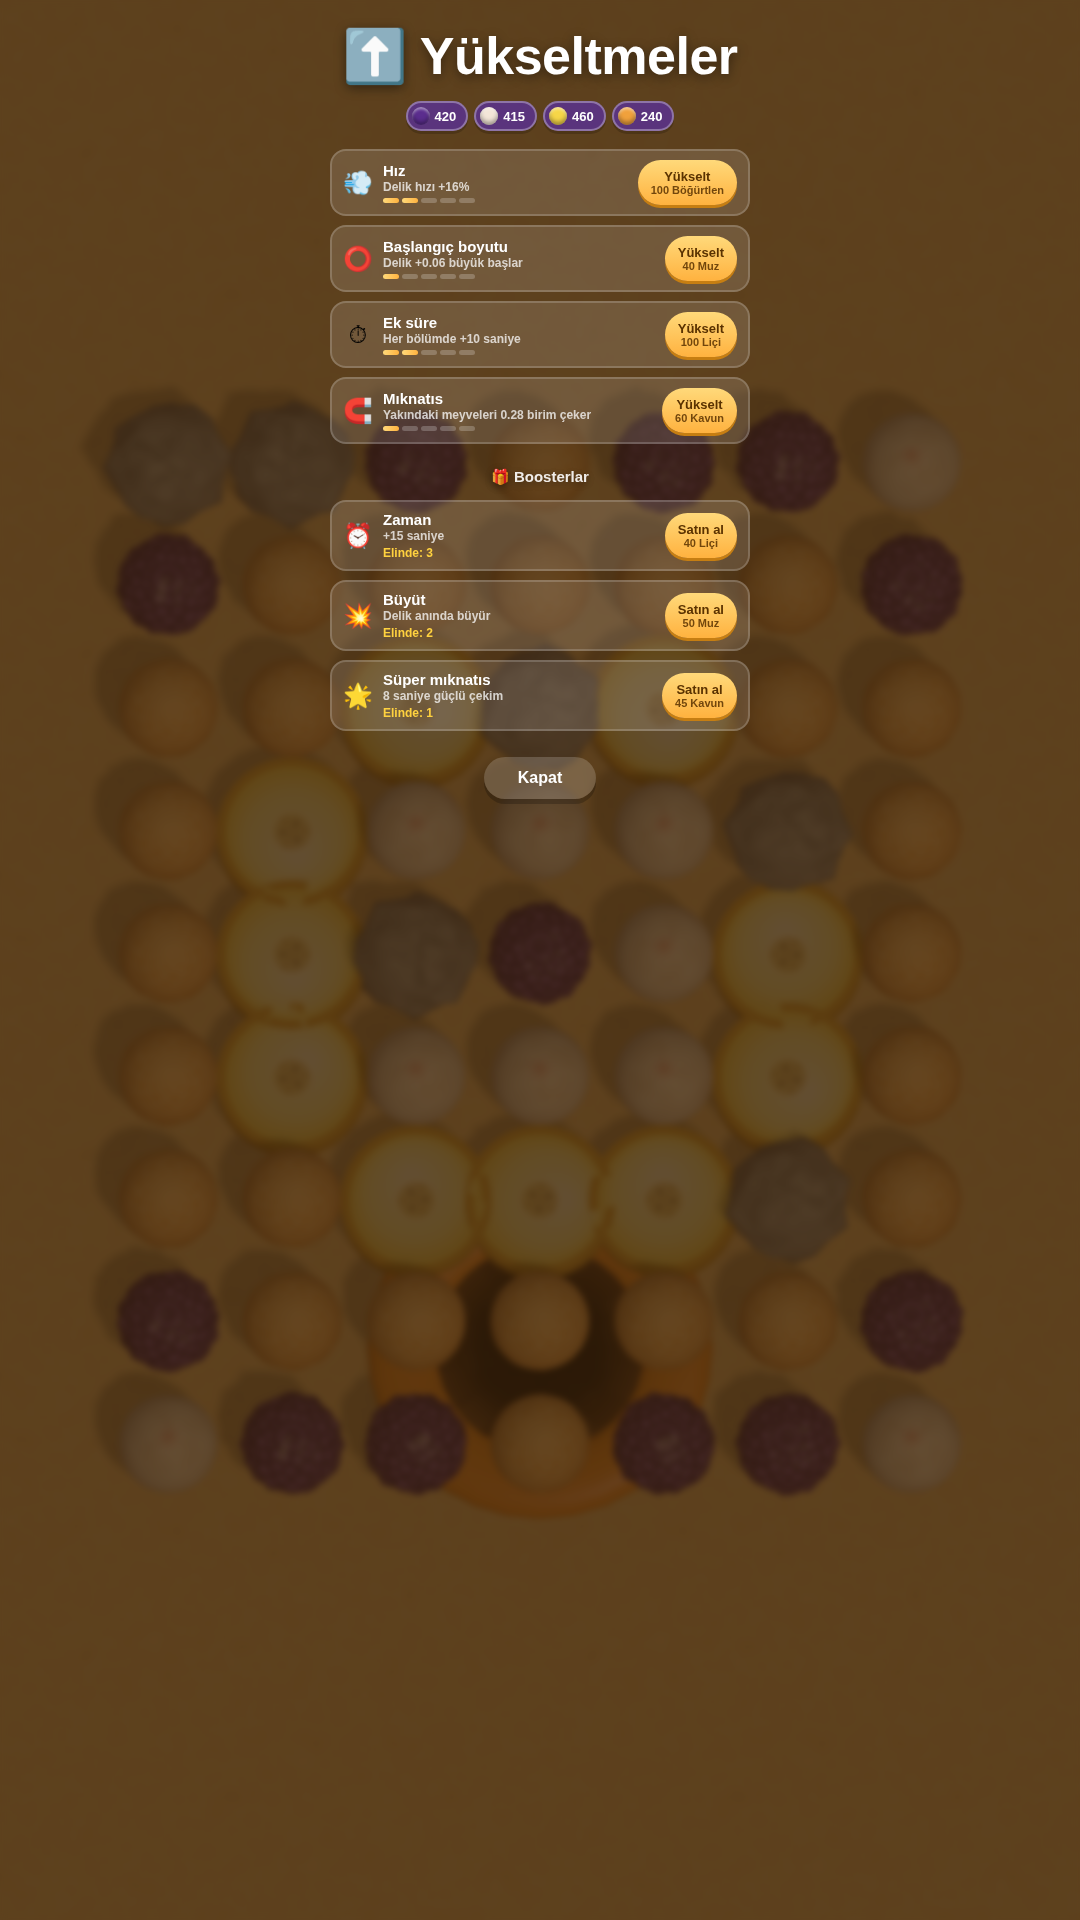
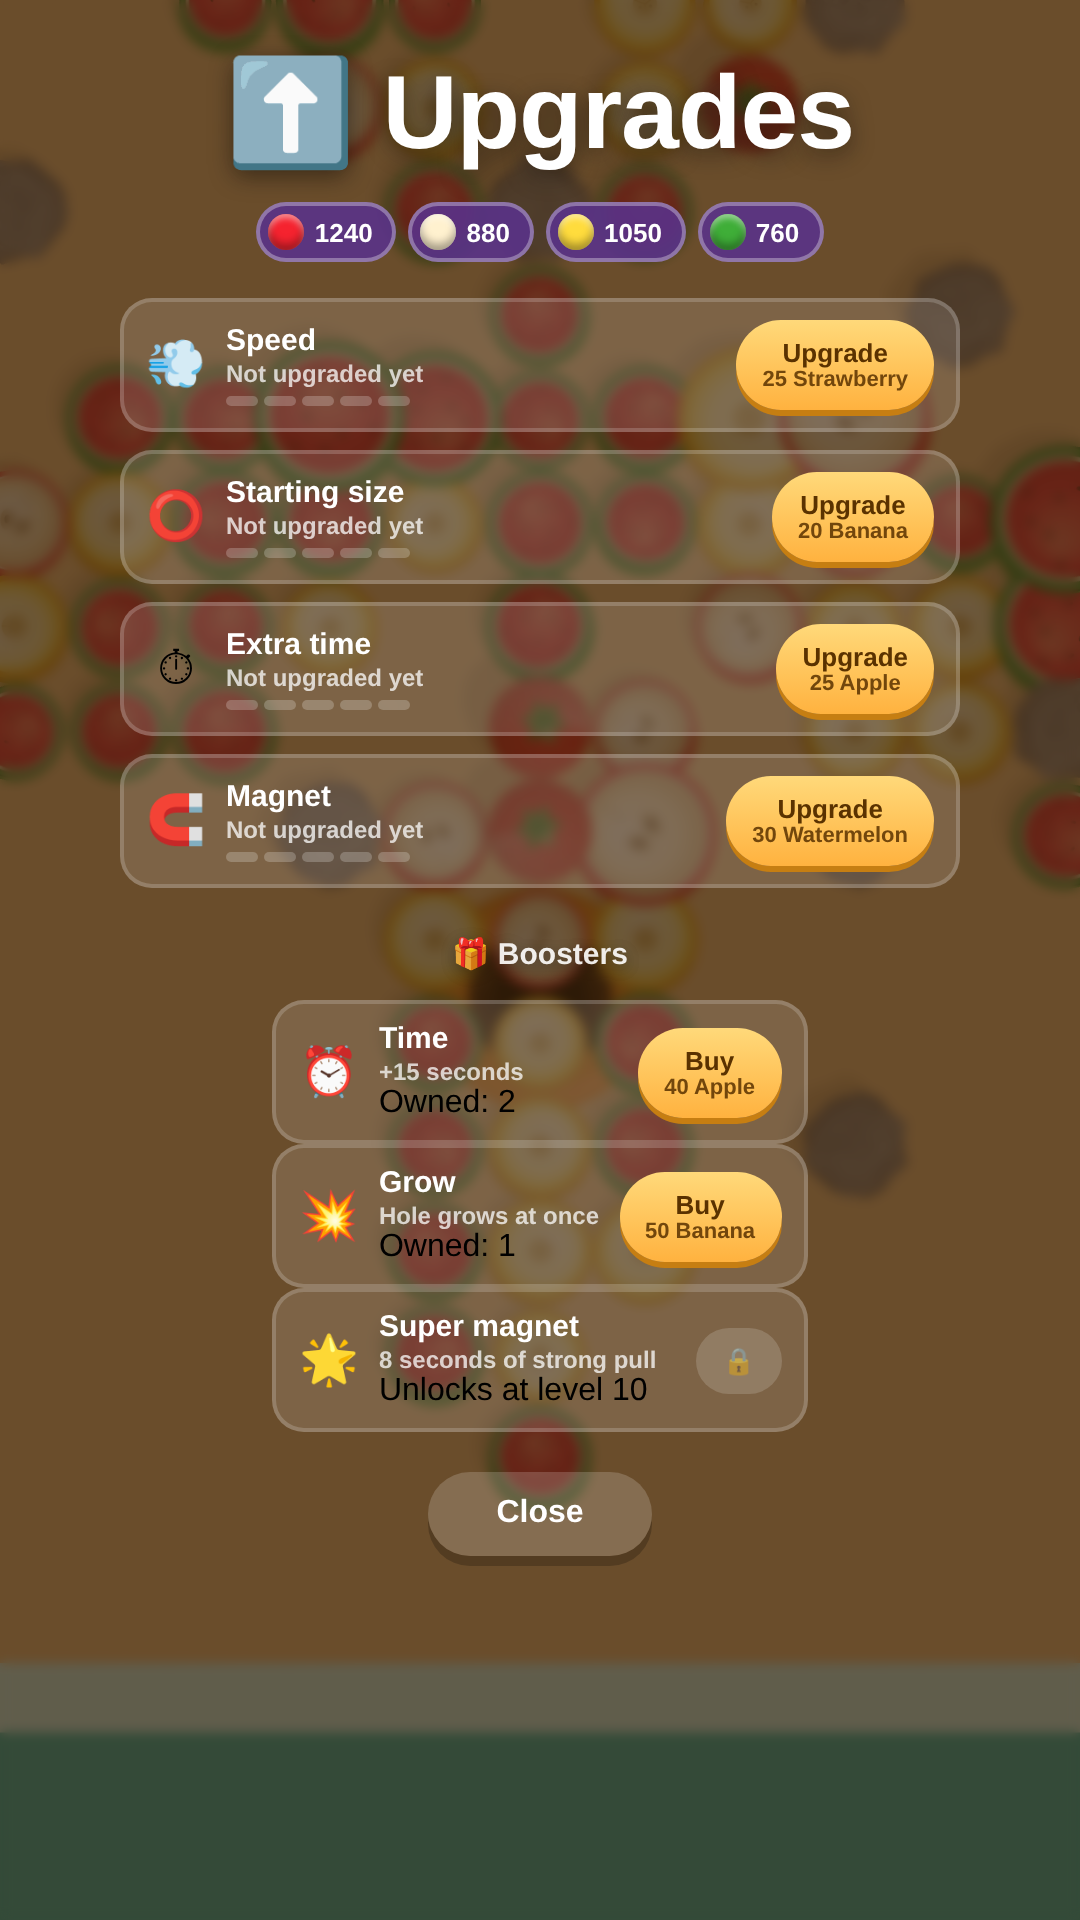
Give the level map a backdrop and refresh the store shots
The map screen had no background of its own, so it drew straight over the
playfield and none of it could be read — the store screenshot is what made
that obvious. It takes the same wash as the other secondary screens now.

Screenshots are recaptured from the current build: painted menu, the new
fruit, the five-tab bar and the level map replacing the old goals shot.

diff --git a/fruithole/index.html b/fruithole/index.html
@@ -118,6 +118,11 @@
 
   #goals { background: rgba(60,35,10,.72); backdrop-filter: blur(3px); justify-content: flex-start;
     padding-top: calc(env(safe-area-inset-top,0px) + 26px); overflow-y: auto; }
+  /* Same backdrop as the other secondary screens — without it the map sat
+     transparent over the playfield and nothing on it could be read. */
+  #levels { background: rgba(60,35,10,.72); backdrop-filter: blur(3px); justify-content: flex-start;
+    padding-top: calc(env(safe-area-inset-top,0px) + 26px); overflow-y: auto; }
+
   /* Level map: every level you have reached, with the stars you took. The
      locked ones are shown too, so there is something to climb towards. */
   #levelGrid { display: grid; grid-template-columns: repeat(4, 1fr); gap: 9px;

diff --git a/www-fruithole/index.html b/www-fruithole/index.html
@@ -118,6 +118,11 @@
 
   #goals { background: rgba(60,35,10,.72); backdrop-filter: blur(3px); justify-content: flex-start;
     padding-top: calc(env(safe-area-inset-top,0px) + 26px); overflow-y: auto; }
+  /* Same backdrop as the other secondary screens — without it the map sat
+     transparent over the playfield and nothing on it could be read. */
+  #levels { background: rgba(60,35,10,.72); backdrop-filter: blur(3px); justify-content: flex-start;
+    padding-top: calc(env(safe-area-inset-top,0px) + 26px); overflow-y: auto; }
+
   /* Level map: every level you have reached, with the stars you took. The
      locked ones are shown too, so there is something to climb towards. */
   #levelGrid { display: grid; grid-template-columns: repeat(4, 1fr); gap: 9px;

diff --git a/fruithole/store/listing-en.md b/fruithole/store/listing-en.md
@@ -92,6 +92,6 @@ IDs must match the `PRODUCTS` list in the game **exactly**.
 - `2-play.png` — gameplay
 - `3-rocks.png` — later level with rocks and a grown hole
 - `4-upgrades.png` — upgrade screen
-- `5-goals.png` — daily missions and achievements
+- `5-levels.png` — the level map with star ratings
 
 Screenshots are 1080×1920, captured from real play.
